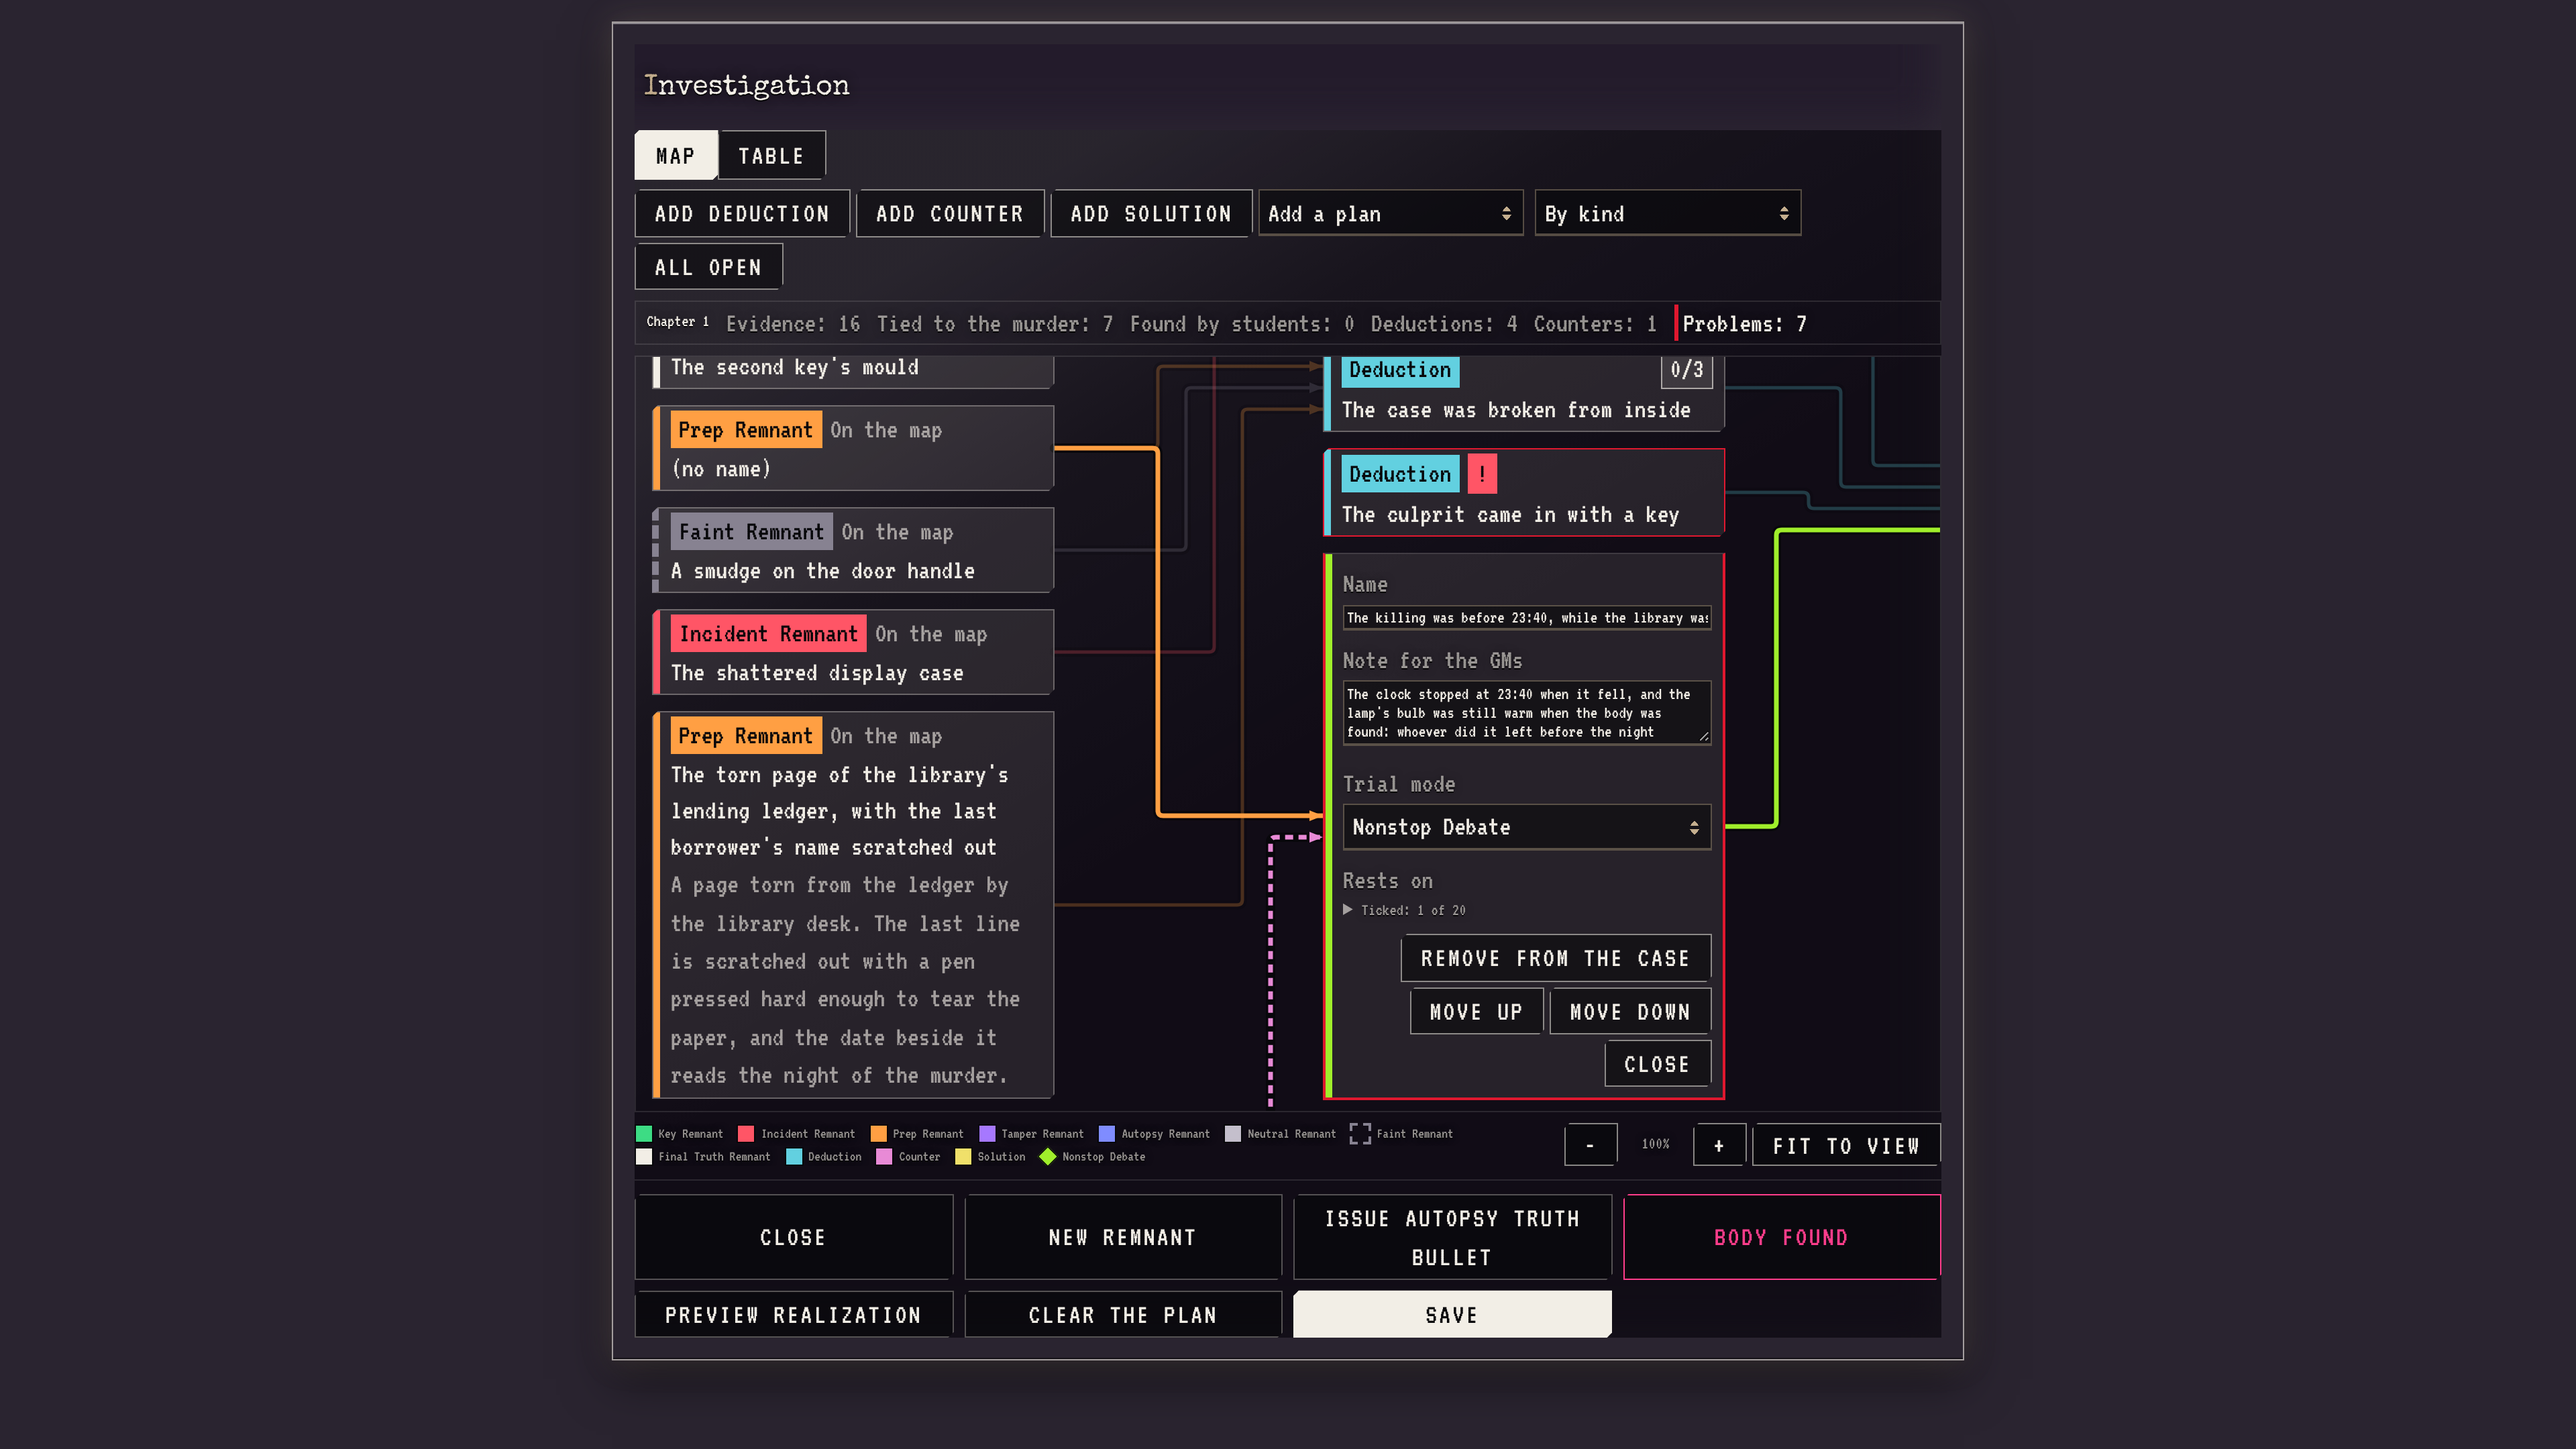
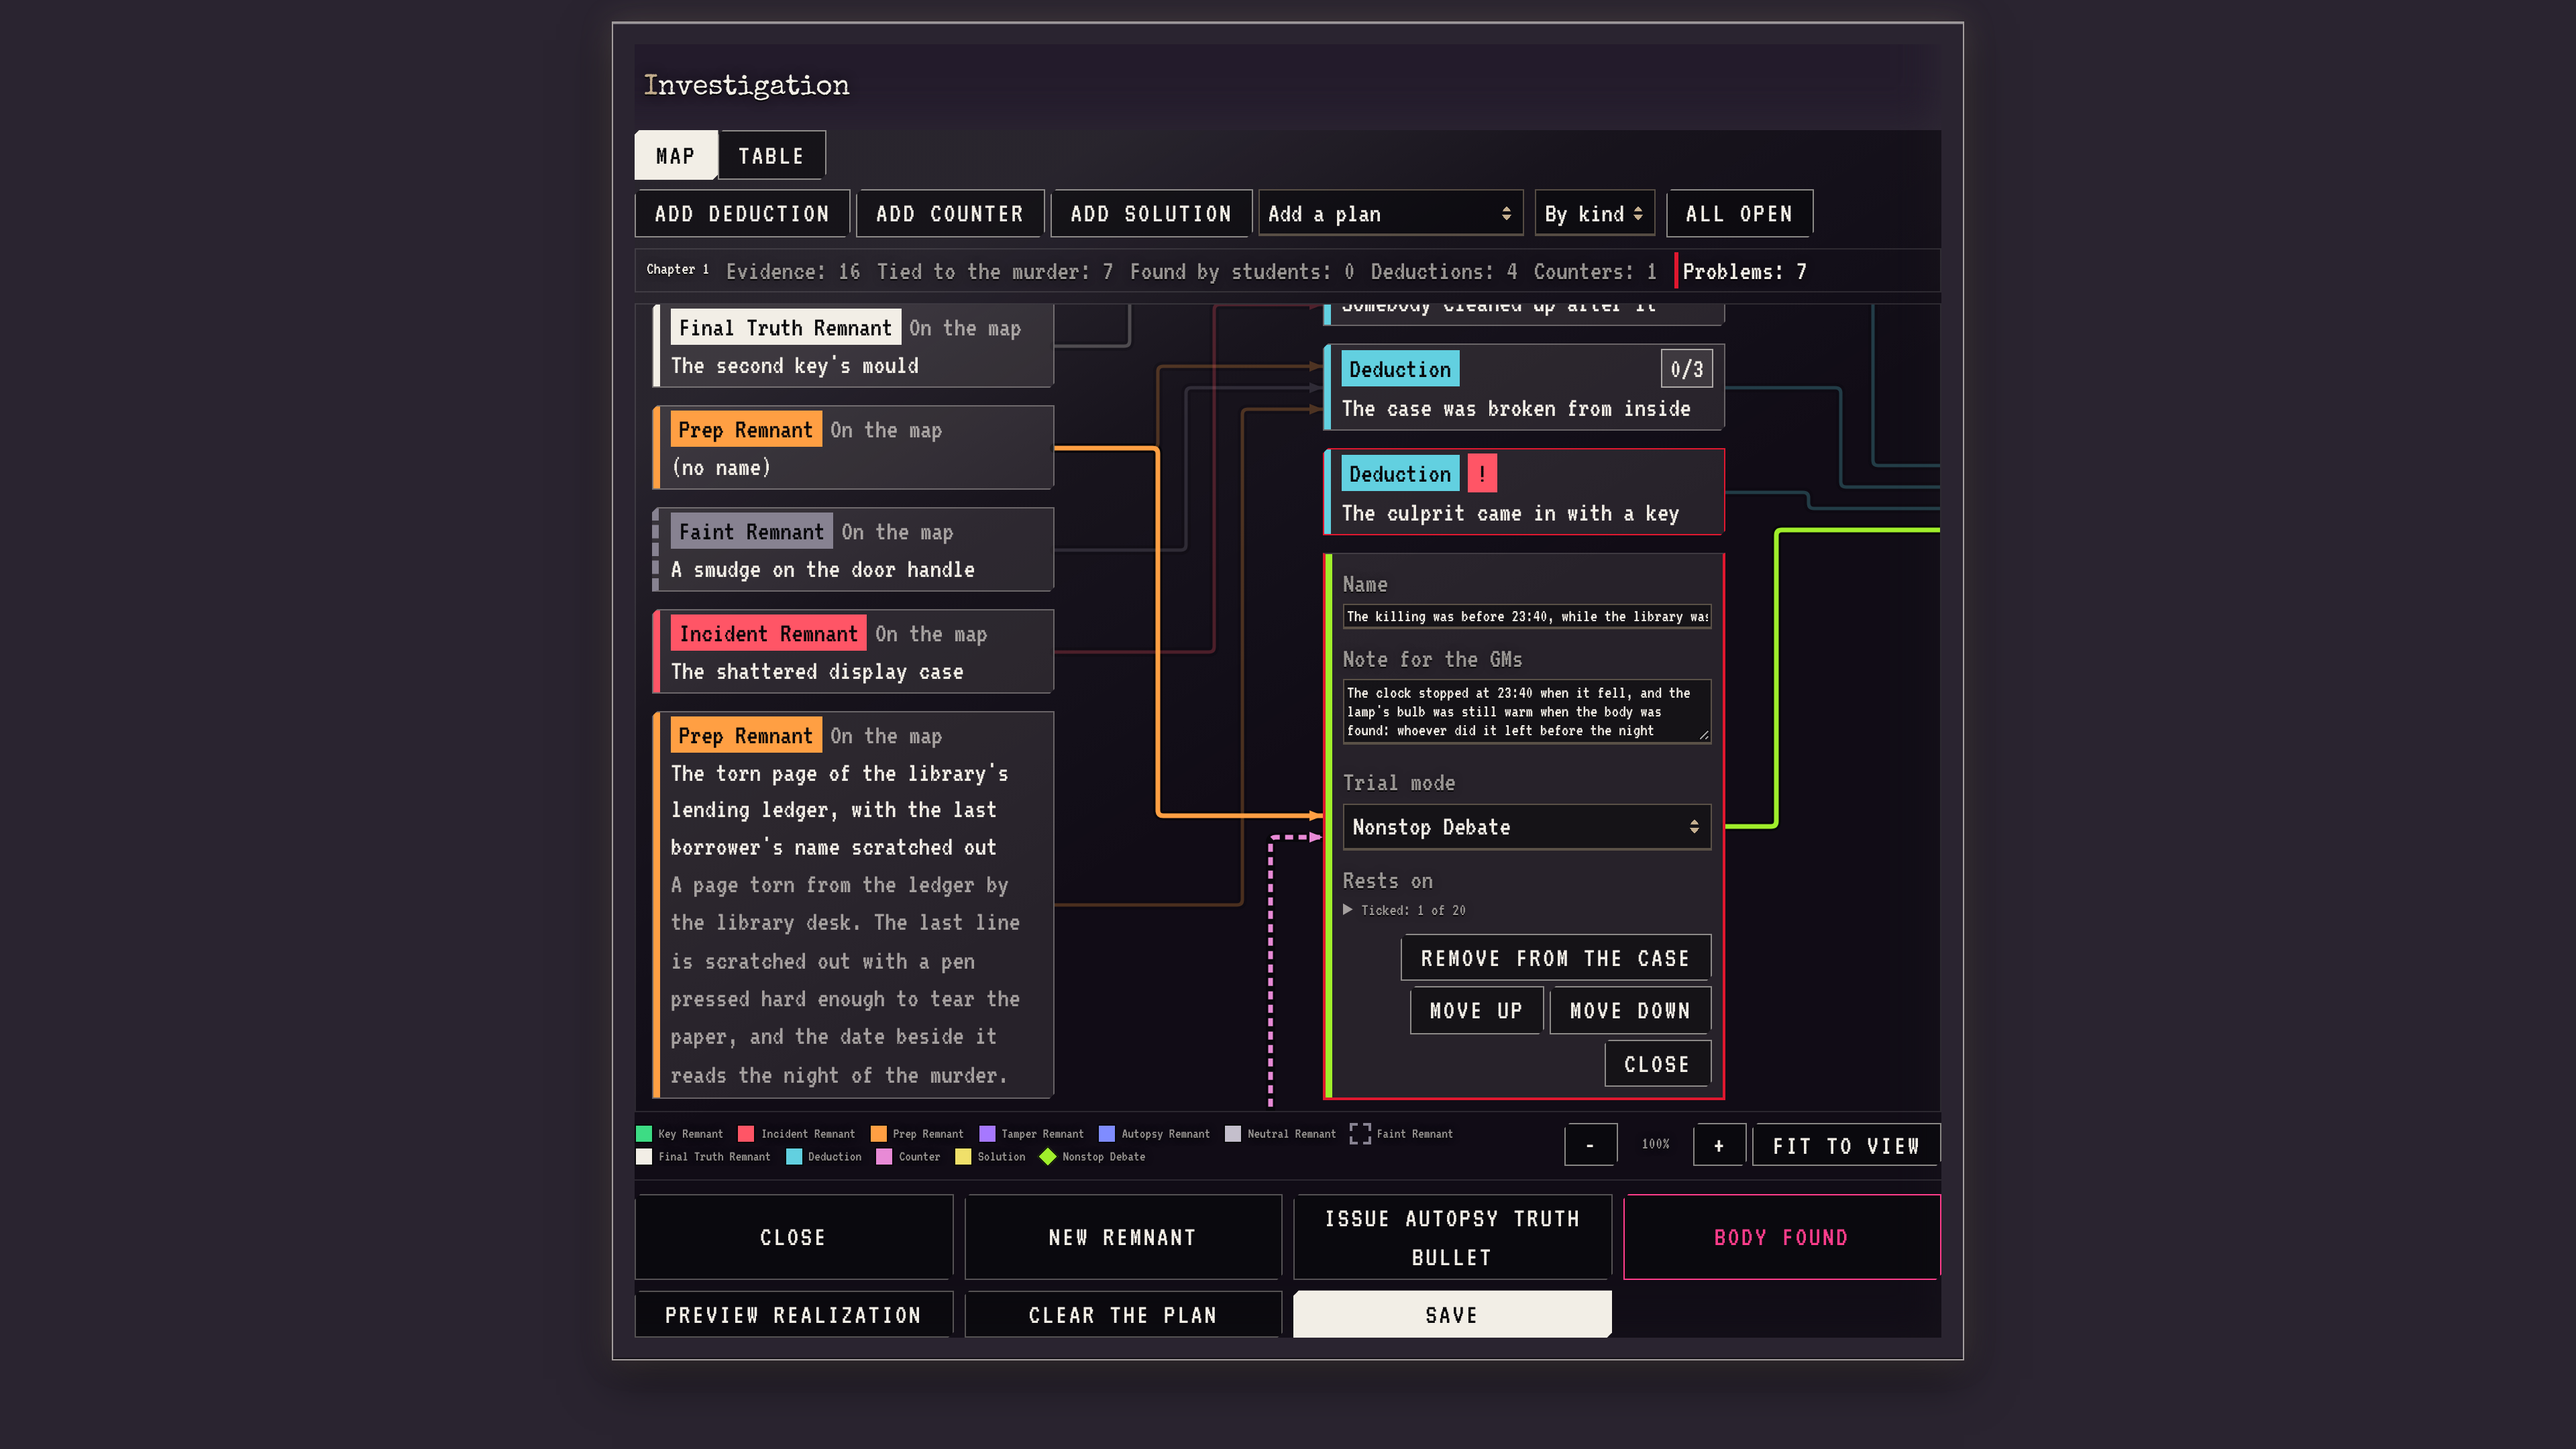
1.2.120 line P: the order select as wide as the order it shows; the toolbar on one row [skip ci]
The coordinator's follow-up: the order select's empty tail pushed "All open" to a row of its
own. components.css: `field-sizing: content` on select.drpg-case-sort (Chromium's; a browser
without it keeps the longest option's width): 198 -> 89 px under Stained Glass ("By kind").
case-map-sweep.mjs reads the tools' rows (a control joins the row whose vertical span it
overlaps) and cuts two rows in a window 1000 px wide or wider; its planted control (the
select forced 700 px wide) reads.
Measured: at 1100 px the tools took one row before this change too, in both themes; the
wrap was in the harness's 1008 px window under Stained Glass - two rows without the change
(2 of 4 pages failing), one with it (12 pages, 0 failing). Legacy took one row either way.
Shots: docs/dev/p120/shots/toolbar-1.2.120-{glass,legacy}.png taken again.

QUICK GREEN at this tree: lint/check/gate ok; case-map-sweep 12 pages, 0 failing.

Claude-Session: https://claude.ai/code/session_01QsWhUatHpWh7WmkZygzKX9

diff --git a/styles/components.css b/styles/components.css
@@ -3802,8 +3802,11 @@ body .application.drpg-window-case .drpg-case-tools button { flex: 0 0 auto; min
 /* the order's select at the theme's select size, as "Add a plan" beside it (line P of 1.2.120; the coordinator, from the
    owner's shots: "the sort select's 'By hand' is drawn at a tiny font next to the other toolbar controls"): it stood at
    the extra-small text, 11 px under Stained Glass beside "Add a plan" at 21 (Chromium, audit/case-map-sweep.mjs's
-   toolbar read); now the two read alike in both themes */
-.application.drpg-window-case select.drpg-case-sort { flex: 0 1 auto; min-width: 0; }
+   toolbar read); now the two read alike in both themes. As wide as the order it shows (`field-sizing: content`, Chromium's;
+   a browser without it keeps the longest option's width): at the theme's size it stood as wide as "Fewer crossings", and
+   that tail put "All open" on a row of its own in a 1008 px window under Stained Glass (one row with it; the sweep's rows
+   read) */
+.application.drpg-window-case select.drpg-case-sort { flex: 0 1 auto; min-width: 0; field-sizing: content; }
 /* THE CAMERA'S BUTTONS in a strip of their own under the graph, at its right (E99 round 5, 12.11.2026): over the graph's
    corner they lay over a node, and after Fit to view the nodes reach every edge of the viewport (case-map.mjs
    `wireCaseMap`; audit/case-map-sweep.mjs reads the bar against every node, at rest and fitted). */

diff --git a/docs/dev/p120/README.md b/docs/dev/p120/README.md
@@ -73,7 +73,7 @@ What the shots are not: Foundry's frame and stylesheet (the harness's capture).
 | File | Code | What it shows |
 | --- | --- | --- |
 | `shots/toolbar-1.2.119-glass.png`, `shots/toolbar-1.2.119-legacy.png` | e515907d | the window as the GM sees it (the camera on the open node, the graph clipped): the order's select at 11 px beside "Add a plan" at 21 under Stained Glass |
-| `shots/toolbar-1.2.120-glass.png`, `shots/toolbar-1.2.120-legacy.png` | this line | the order's select at the theme's select size, as "Add a plan" (under Stained Glass "All open" then wraps to a second row at this window's 1100 px) |
+| `shots/toolbar-1.2.120-glass.png`, `shots/toolbar-1.2.120-legacy.png` | this line | the order's select at the theme's select size, as "Add a plan", and as wide as the order it shows: the tools on one row in the harness's 1008 px window, both themes (two under Stained Glass with the select as wide as its longest option) |
 
 | `shots/toolbar-600-1.2.119-glass.png`, `shots/toolbar-600-1.2.119-legacy.png` | e515907d | the window drawn 600 px wide (`--width 600`), the GM's view |
 | `shots/toolbar-600-1.2.120-glass.png`, `shots/toolbar-600-1.2.120-legacy.png` | this line | the same: the tools wrap to rows, none over another |
